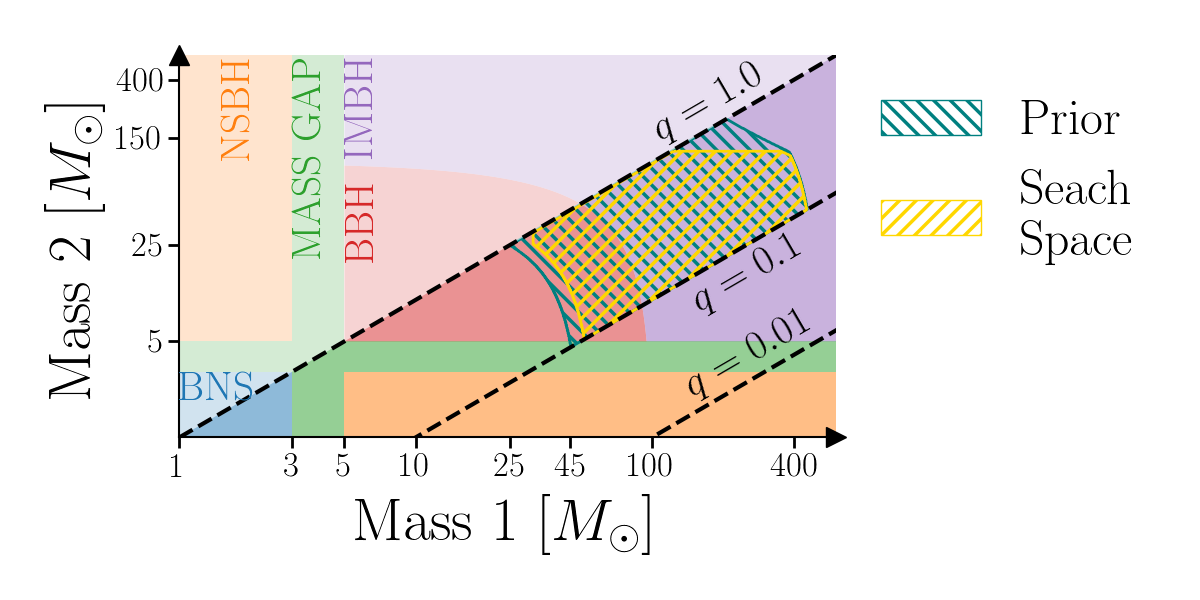
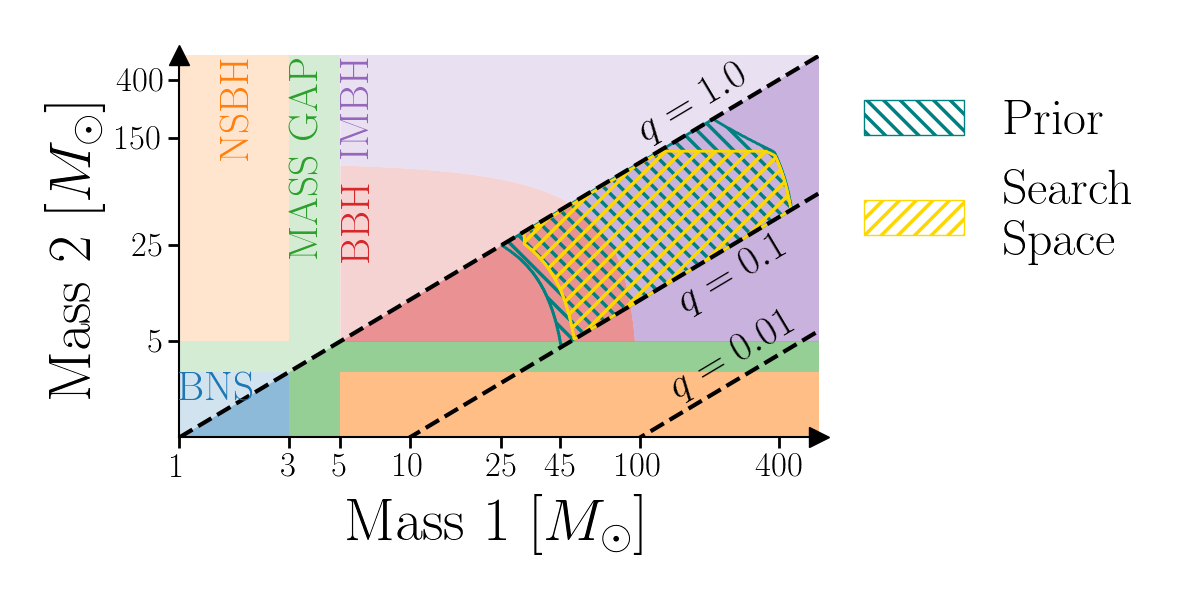
update template plot

diff --git a/scripts/make_template_plot.py b/scripts/make_template_plot.py
@@ -339,7 +339,7 @@ def plot_template_bank():
 
 def add_legend(ax):
     patch1 = mpatches.Patch(facecolor='none', label='Prior', edgecolor=PRI_COL, hatch="\\\\")
-    patch2 = mpatches.Patch(facecolor='none', label='Trigger\nFilter', edgecolor=FILT_COL, hatch="//")
+    patch2 = mpatches.Patch(facecolor='none', label='Search\nSpace', edgecolor=FILT_COL, hatch="//")
 
     ax.legend(
         handles=[patch1, patch2],
